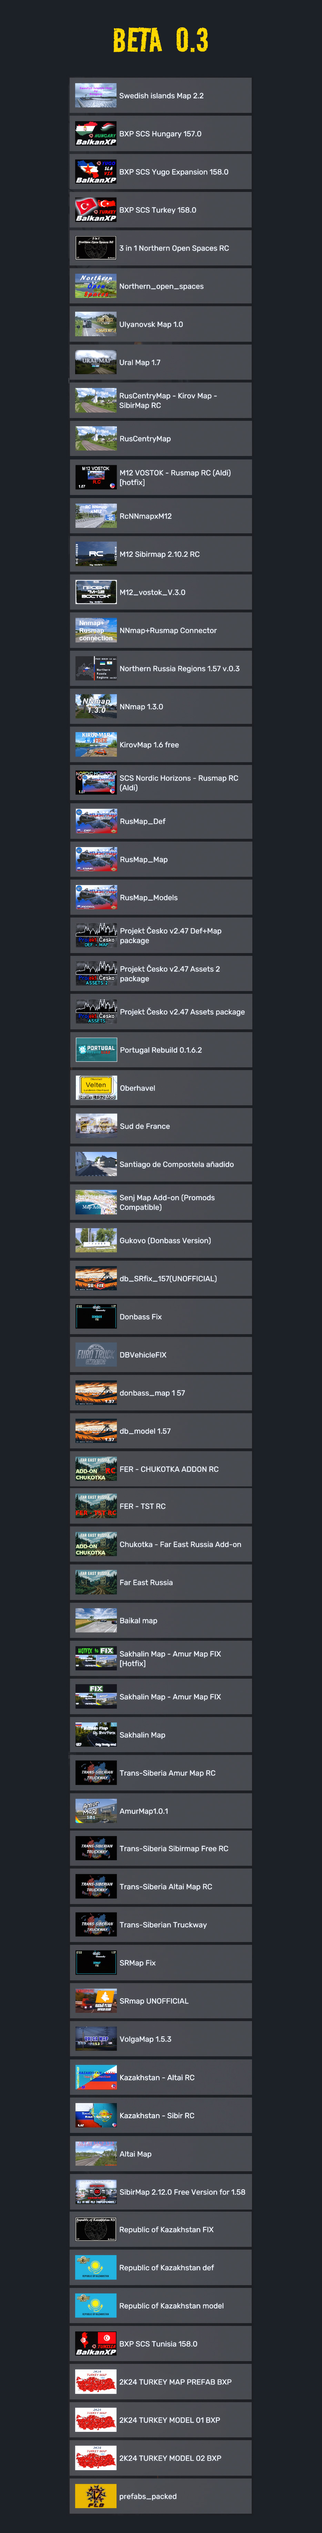
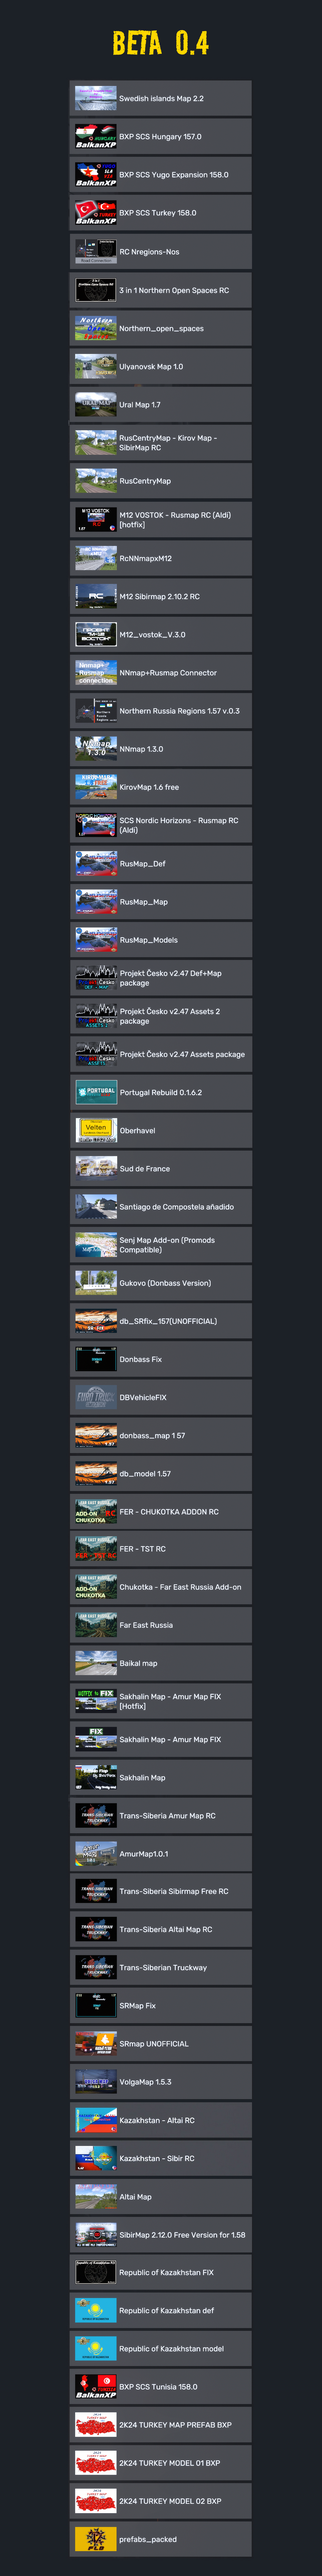
upd ets2

Changed region(s): [[0.2173, 0.0, 0.7762, 0.9986], [0.621, 0.0, 0.652, 0.0312], [0.5589, 0.0, 0.5899, 0.0312]]

diff --git a/src/data/combos/v1.58.js b/src/data/combos/v1.58.js
@@ -5,7 +5,7 @@ export const combos_v1_58 = [
     title: "MEGA MAP COMBO BETA",
     preview: "img/combos/158/ets2-mega/mega-preview.jpg",
     version_game: "1.58",
-    version: "0.4",
+    version: "0.5",
     date: "19.02.26",
     // video: "r6jq5qA-gaA",
     image_top: "img/combos/158/ets2-mega/mega-top.jpg",
@@ -13,7 +13,7 @@ export const combos_v1_58 = [
     // table:
     //   "https://docs.google.com/spreadsheets/d/1TtDWYDt9lXQwIgxoerH5EJfgEsv6EuusAe8pYQlVdJg/edit?gid=1161399557#gid=1161399557",
     profile:
-      "https://sharemods.com/lrq6zong3d0r/1.58_MEGA_MAP_COMBO_0.4.zip.html",
+      "https://sharemods.com/gdwbzrfrkubq/1.58_MEGA_MAP_COMBO_0.5.zip.html",
   },
   {
     id: "eurasia-map-158",
@@ -21,7 +21,7 @@ export const combos_v1_58 = [
     title: "EURASIA MAP COMBO BETA",
     preview: "img/combos/158/ets2-eurasia/eurasia-preview.jpg",
     version_game: "1.58",
-    version: "0.3",
+    version: "0.4",
     date: "19.02.26",
     // video: "r6jq5qA-gaA",
     image_top: "img/combos/158/ets2-eurasia/eurasia-top.jpg",
@@ -29,7 +29,7 @@ export const combos_v1_58 = [
     // table:
     //   "https://docs.google.com/spreadsheets/d/1TtDWYDt9lXQwIgxoerH5EJfgEsv6EuusAe8pYQlVdJg/edit?gid=1161399557#gid=1161399557",
     profile:
-      "https://sharemods.com/g9o78k45eib0/1.58_EURASIA_MAP_COMBO_0.3.zip.html",
+      "https://sharemods.com/zwtftv1x934f/1.58_EURASIA_MAP_COMBO_0.4.zip.html",
   },
   {
     id: "bigrussia-map-158",
@@ -37,14 +37,14 @@ export const combos_v1_58 = [
     title: "BIGRUSSIA MAP COMBO BETA",
     preview: "img/combos/158/ets2-bigrussia/bigrussia-preview.jpg",
     version_game: "1.58",
-    version: "0.3",
+    version: "0.4",
     date: "19.02.26",
     // video: "r6jq5qA-gaA",
     image_top: "img/combos/158/ets2-bigrussia/bigrussia-top.jpg",
     image_bottom: "img/combos/158/ets2-bigrussia/bigrussia-bottom.jpg",
     // table:
     //   "https://docs.google.com/spreadsheets/d/1TtDWYDt9lXQwIgxoerH5EJfgEsv6EuusAe8pYQlVdJg/edit?gid=1161399557#gid=1161399557",
-    profile: "https://sharemods.com/c923kj85ur07/1.58_BIG_RUSSIA_0.3.zip.html",
+    profile: "https://sharemods.com/72jgpxx69c7d/1.58_BIG_RUSSIA_0.4.zip.html",
   },
   {
     id: "ats-server-map-158",
